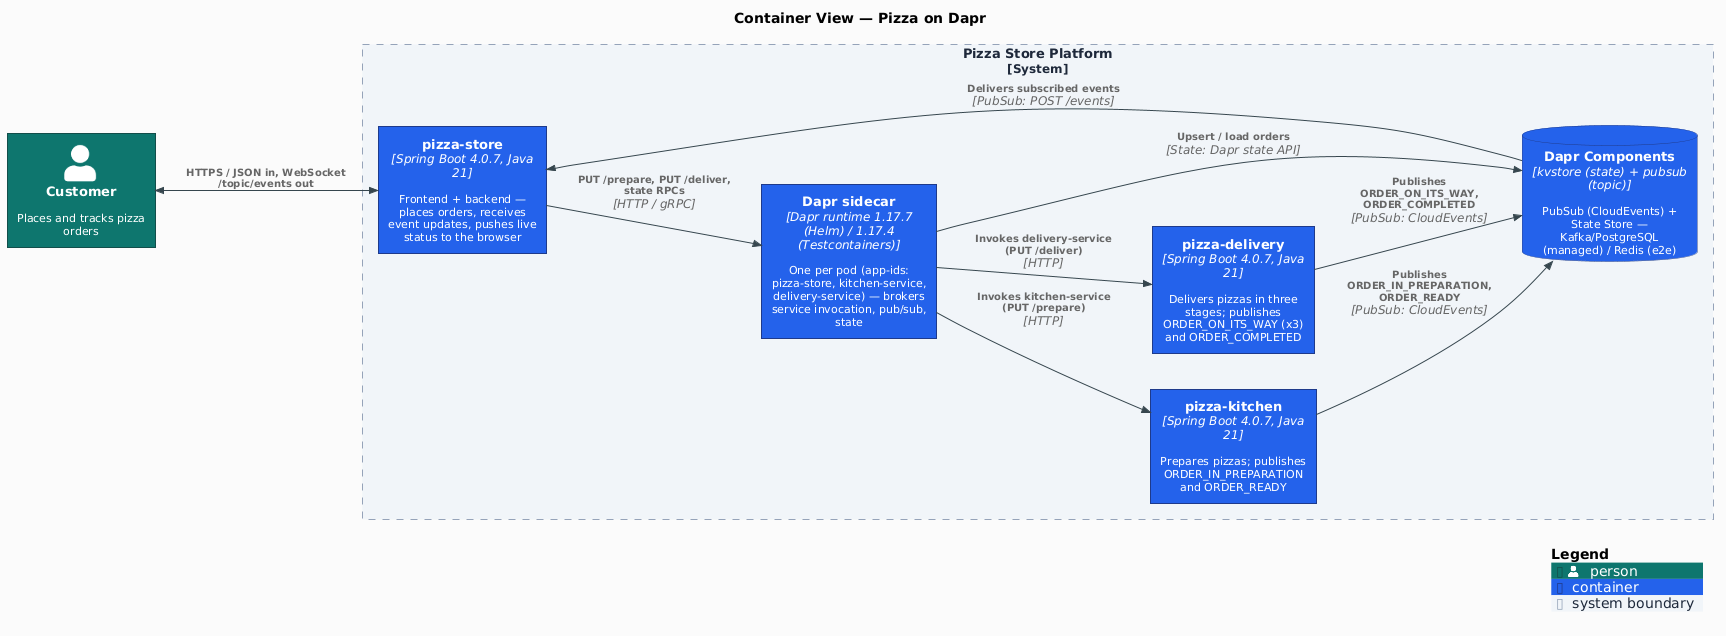
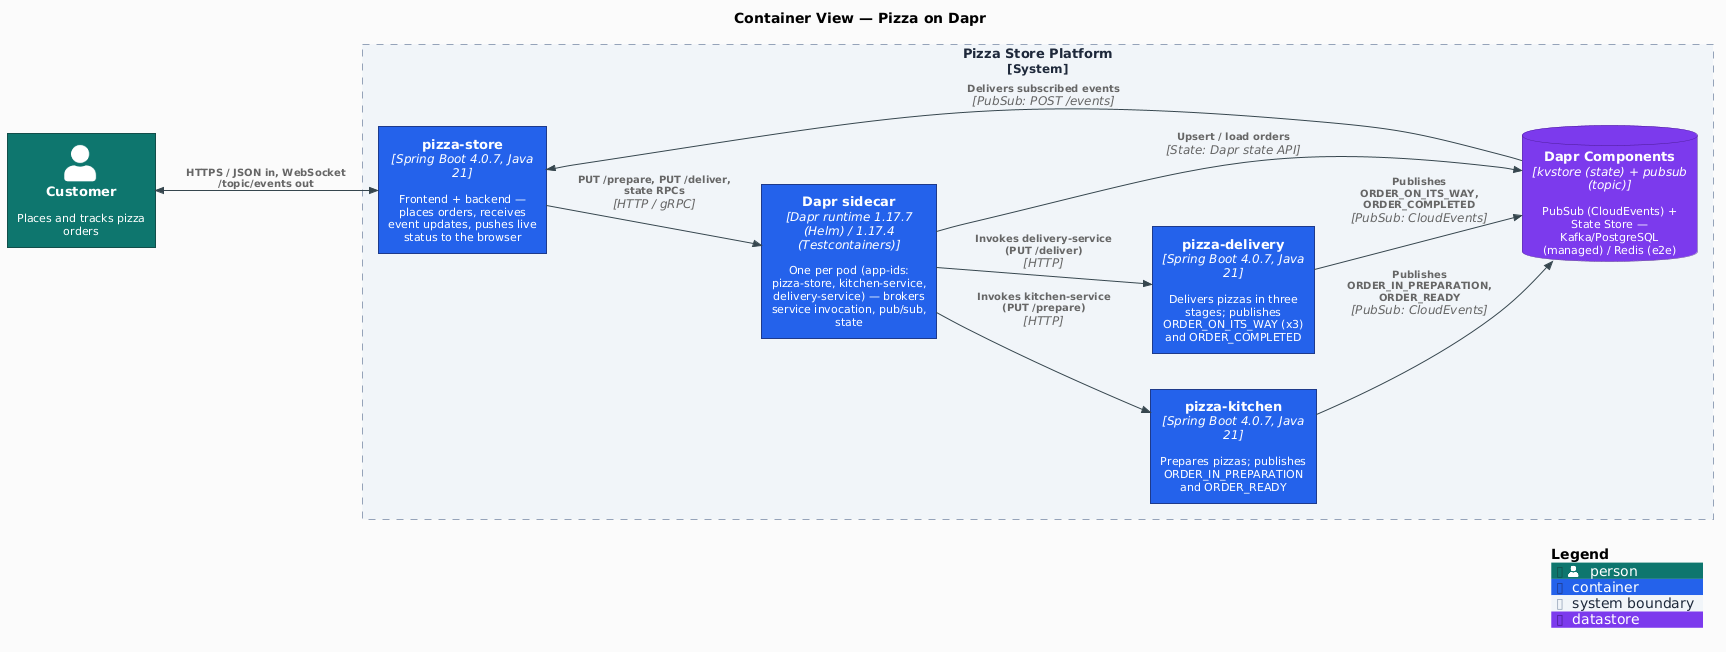
fix(ci,renovate,docs): project-review remediation — cleanup retention, if-cascade guards, KIND digest tracking, diagram tags (#108)
CI (.github/workflows):
- cleanup-runs.yml: per-workflow run retention (group_by workflowName) so the
  weekly cleanup can't delete every CI run and deregister it as a required
  check (badge 404); exclude open-PR head SHAs from pruning so an idle PR
  never loses its ci-pass run; add pull-requests: read for the gh pr list call
- ci.yml: prefix e2e + cve-check job `if:` with `!failure() && !cancelled()`
  (an explicit `if:` strips GitHub's implicit success() gate — same guard the
  docker job already uses); drop the decorative parenthetical from the
  shared-e2e step name

Renovate + Makefile:
- renovate.json: dedicated kindest/node custom manager capturing BOTH the tag
  and the digest — the generic single-line manager left KIND_NODE_DIGEST frozen,
  making node-image bumps silent no-ops (the image resolves by digest); remove
  the misleading Makefile comment + the `# renovate:` line that fed the generic
  manager. Verified the regex extracts currentValue + currentDigest.
- Makefile: pin the act runner image (catthehacker act-24.04, Renovate-tracked)
  in ci-run; sync the static-check help comment (check-env + cve-check-selftest)

Diagrams:
- _skinparam.iuml: UpdateElementStyle("container_db"/"container_queue"/
  "system_ext") are no-ops on C4-PlantUML v2.13.0 (verified by pixel-sampling —
  the DB box rendered indigo, not violet). Replace with
  AddElementTag("datastore"/"queue") attached via $tags= at each ContainerDb()/
[…]

diff --git a/CLAUDE.md b/CLAUDE.md
@@ -25,7 +25,7 @@ make deps-prune-check                   # Fail if unused declared Maven dependen
 make check-java-alignment               # Fail-fast precheck: Java major matches across .mise.toml, .java-version, pom.xml (java.version + maven.compiler.{source,target})
 make check-env                          # STOPPER gate: fail if the committed .env.example source-of-truth is missing (wired into static-check)
 make check-ports                        # Fail early naming the holder if a fixed host port in $(CHECK_PORTS) is bound (used by run + e2e)
-make static-check                       # Composite: check-java-alignment + check-env + format-check + lint + trivy-fs + trivy-config + secrets + diagrams-check + mermaid-lint + k8s-validate
+make static-check                       # Composite: check-java-alignment + check-env + format-check + lint + trivy-fs + trivy-config + secrets + diagrams-check + mermaid-lint + k8s-validate + cve-check-selftest
 make k8s-validate                       # Validate k8s/ + k8s-dapr-shared/ manifests via kubeconform (vendored OpenAPI, no cluster)
 make diagrams                           # Render docs/diagrams/*.puml → docs/diagrams/out/*.png (PlantUML in Docker)
 make diagrams-clean                     # Remove rendered PNGs
@@ -194,7 +194,7 @@ Running multiple KinD clusters on the shared default `kind` Docker network cause
 
 ### Test coverage extras
 
-- E2E asserts the WebSocket broadcast end-to-end via `websocat` (mise tool, `cargo:websocat 1.14.0`) — regression guard for the PUBLIC_IP-hardcoded bug retired 2026-04-26.
+- E2E asserts the WebSocket broadcast end-to-end via `websocat` (mise tool, `aqua:vi/websocat 1.14.1`) — regression guard for the PUBLIC_IP-hardcoded bug retired 2026-04-26.
 - `make k8s-validate` (kubeconform) validates `k8s/` and `k8s-dapr-shared/` against vendored OpenAPI on every push, so manifest-parse drift in the alternate "shared sidecar" topology surfaces immediately. RUNTIME drift in that topology is caught by the weekly-scheduled `e2e-shared` CI job (+ `workflow_dispatch`), which brings up KinD, installs a standalone shared daprd per app-id via the `dapr-shared-chart` Helm chart (daprd pinned to the runtime version; sentry/operator ports overridden to 443 to match Dapr 1.17+), deploys `k8s-dapr-shared/`, and runs the full e2e suite. NOTE: `k8s-dapr-shared/apps.yaml` is a parallel manifest set — keep it in sync with `k8s/` (resources, `/tmp` volume, OTLP env, probes); five such drifts were the reason the topology was non-functional until 2026-06-15.
 - `e2e` job runs an OWASP ZAP baseline DAST scan against the LB-exposed pizza-store after the assertion suite passes. **Strict gate** (`fail_action: true`, no `continue-on-error`): `pizza-store` ships baseline security headers via `SecurityHeadersFilter` (CSP allowlisting the pinned CDN origins + same-origin `/ws`, X-Content-Type-Options, X-Frame-Options DENY, Referrer-Policy, Permissions-Policy, COOP, CORP) and Subresource-Integrity (`sha384`) on the jQuery/STOMP CDN `<script>` tags, so the fixable findings are closed in code. Residual accepted alerts are documented as `IGNORE` in `.zap/rules.tsv` (10017 cross-domain JS — pinned+SRI'd; 90004 COEP-omitted — COOP/CORP are set; 10049/10109 informational). A NEW/unbudgeted finding (e.g. from a ZAP `:stable` image bump) now fails the e2e job. The action is pinned at `zaproxy/action-baseline@v0.15.0` (latest release; no v0.16+ exists). COEP `require-corp` is intentionally omitted — it would force every cross-origin CDN subresource to opt in via CORP for no benefit absent cross-origin-isolation needs.
 - The OpenTelemetry instrumentation BOM is consumed via the `opentelemetry-instrumentation-bom-alpha` artifact id. The `-alpha` suffix is the upstream namespace for incubating instrumentation modules — it is the production-shipped artifact name, not a stability signal, and it does not "graduate" to a non-alpha BOM. Treat as the steady-state coordinate.
@@ -222,13 +222,9 @@ Last reviewed: 2026-07-07 (backlog re-verified against version-exact Maven Centr
 - [ ] **Maven 4.0 migration** — plan when Maven 4.0 reaches GA. Re-verified 2026-07-07: still **RC-5** upstream (`apache/maven` releases), no GA.
 - [ ] **Spring Boot 4.0 → 4.1 migration** — Spring Boot 4.0 OSS support ends **2026-12-31**. **4.1.0 reached GA 2026-06-10** (verified on Maven Central: `spring-boot` metadata `<release>4.1.0`) — earlier than the previously-estimated Q4 2026. The migration window is now OPEN; project is currently on the latest 4.0.x patch (**4.0.7**). This is a framework minor migration coupled with **Java 25** (see below), NOT a drop-in bump — schedule a dedicated session: spike 4.1 → build/unit/integration → `make e2e` (+ ZAP/OTel wiring re-check) before merge, targeting a land well ahead of the 2026-12-31 EOL. Project commits to staying on the Spring Boot 4.x line.
 - [ ] **`wiremock-testcontainers` GA** — re-verified 2026-07-07: still `1.0-alpha-15` upstream (Maven Central `wiremock-testcontainers-module` metadata — latest = release = alpha-15). Track GA release. (Note: `opentelemetry-instrumentation-bom-alpha` is NOT a backlog item — see Key Config "Test coverage extras" for the rationale.)
-- [x] **`dapr-spring-boot-4-starter` 1.17.4** — DONE 2026-07-07. Bumped `<dapr.version>` 1.17.3 → **1.17.4** (drives `dapr-spring-boot-4-starter` + `testcontainers-dapr`; GA'd 2026-07-06, verified against `repo1.maven.org` metadata for all three coordinates). Same-minor patch, within the SDK-on-or-behind-deployed-runtime-minor cadence (deployed runtime 1.17.7). Validated: build + unit (27/0) + integration (9/0, real 1.17.4 `DaprContainer` sidecar) all green. **1.18.x still held** — upstream Dapr runtime is now on **1.18.1** (2026-06-16) and SDK 1.18.0 is GA, but the project's *deployed* runtime (Helm chart pin) is still 1.17.7. Moving to 1.18 is a coordinated runtime(Helm)+SDK+e2e bump (incl. the shared-chart sentry/operator 443 override), not a drop-in — do it as a deliberate session when the deployed runtime moves to the 1.18 line.
+- [ ] **Dapr 1.18 line move** — the SDK tracks the latest 1.17 patch (`<dapr.version>` **1.17.4**, matching the deployed 1.17.7 runtime; SDK-on-or-behind-deployed-runtime-minor cadence). Upstream is on runtime **1.18.1** (2026-06-16) + SDK **1.18.0** GA, but 1.18 is **held** until the project's *deployed* runtime (Helm chart pin) moves off 1.17.7. It's a coordinated runtime(Helm)+SDK+e2e bump — incl. the shared-chart sentry/operator 443 override — not a drop-in; schedule a deliberate session when the deployed runtime moves to the 1.18 line.
 - [ ] **WireMock 4.0 GA** — re-verified 2026-07-07: still beta (`4.0.0-beta.38` upstream); project's **`3.13.2` IS the latest 3.x stable** (Maven Central confirms no 3.13.3/3.14.x). Watch for 4.0 GA before bumping.
-- [ ] **Single-app DaprContainer limitation** — upstream-blocked: `dapr/java-sdk:testcontainers-dapr/.../DaprContainer.java` exposes only single `appName/appPort/appChannelAddress` fields (no peer-app registration). Re-verified 2026-07-07 against `master`, `v1.17.4`, AND `v1.18.1` — all single-app only (`withAppName`/`withAppPort`/`withAppChannelAddress`, no `withApp`/`DaprApp`/`withApps`/app-collection API), and there is **no upstream issue or PR** tracking multi-app/peer-app support, so there is no ticket to watch yet. Workaround in `KitchenInvocationIT` / `DeliveryInvocationIT`: override `DAPR_HTTP_ENDPOINT` to a WireMock receiver — verifies the emitted HTTP contract (verb, path, body) but bypasses the sidecar invoke hop. The full sidecar→app→sidecar path is covered by the KinD e2e via `make e2e`. Re-wire if/when upstream adds multi-app support (watch `dapr/java-sdk` for a `DaprApp`/`withApp` API on `DaprContainer`).
-- [x] **kindest/node v1.36 + kubectl 1.36** — DONE 2026-06-15. Bumped as a coupled set: KinD `0.31.0 → 0.32.0` (the release that ships the v1.36.1 node image — KinD requires the `@sha256` digest matched to its own release), `KIND_NODE_VERSION v1.35.1 → v1.36.1` + matching digest in the Makefile, and `kubectl 1.35.4 → 1.36.2` in `.mise.toml` (cluster ↔ kubectl skew stays at +1 minor). Validated with `make e2e`.
-- [ ] **Java 25 LTS migration** — Java 25 LTS released March 2026, supported through 2032. Java 21 LTS supported through 2031 — no urgency (5+ years runway). Plan the bump to land **alongside Spring Boot 4.1** (Q3 2026, see above) since Spring Boot 4.1 is the first GA Spring Boot line that's Java-25-aware — one migration cycle for both rather than two.
-- [x] **ZAP baseline `continue-on-error: true` → strict** — DONE 2026-06-15. `pizza-store` now ships baseline security headers (`SecurityHeadersFilter`) + Subresource-Integrity, closing the fixable ZAP findings in code; residual accepted alerts are budgeted in `.zap/rules.tsv`. Flipped to strict (`fail_action: true`, `continue-on-error` removed). `zaproxy/action-baseline@v0.15.0` is the latest release (no v0.16+ exists), so no action bump was needed. All CI behavioral gates are now strict.
-
+- [ ] **Single-app DaprContainer limitation** — upstream-blocked: `dapr/java-sdk:testcontainers-dapr/.../DaprContainer.java` exposes only single `appName/appPort/appChannelAddress` fields (no peer-app registration). Re-verified 2026-07-07 against `master`, `v1.17.4`, AND `v1.18.1` — all single-app only (`withAppName`/`withAppPort`/`withAppChannelAddress`, no `withApp`/`DaprApp`/`withApps`/app-collection API), and there is **no upstream issue or PR** tracking multi-app/peer-app support, so there is no ticket to watch yet. Workaround in `KitchenInvocationIT` / `DeliveryInvocationIT`: override `DAPR_HTTP_ENDPOINT` to a WireMock receiver — verifies the emitted HTTP contract (verb, path, body) but bypasses the sidecar invoke hop. The full sidecar→app→sidecar path is covered by the KinD e2e via `make e2e`. Re-wire if/when upstream adds multi-app support (watch `dapr/java-sdk` for a `DaprApp`/`withApp` API on `DaprContainer`).- [ ] **Java 25 LTS migration** — Java 25 LTS released March 2026, supported through 2032. Java 21 LTS supported through 2031 — no urgency (5+ years runway). Plan the bump to land **alongside Spring Boot 4.1** (Q3 2026, see above) since Spring Boot 4.1 is the first GA Spring Boot line that's Java-25-aware — one migration cycle for both rather than two.
 ## Skills
 
 Use the following skills when working on related files:

diff --git a/README.md b/README.md
@@ -5,7 +5,7 @@
 
 # Pizza on Dapr — Spring Boot 4 Microservices Reference
 
-Reference implementation of a three-service Java microservice platform on [Spring Boot 4](https://spring.io/projects/spring-boot) + [Dapr](https://dapr.io) — pub/sub on topic `topic`, state store `kvstore`, mTLS service invocation. The **runtime surface** exposes REST controllers, a STOMP WebSocket on `pizza-store`, per-pod Dapr sidecars, [Micrometer Tracing](https://micrometer.io/docs/tracing) + [OpenTelemetry](https://opentelemetry.io) OTLP/HTTP spans shipped to an in-cluster [Jaeger](https://www.jaegertracing.io) for e2e, and Actuator-backed liveness/readiness probes; the **delivery surface** covers a [Paketo CNB](https://paketo.io) image build (`spring-boot:build-image`) with amd64 GHCR publishing + [cosign](https://www.sigstore.dev) keyless OIDC signing, a [Testcontainers](https://testcontainers.com) + [WireMock](https://wiremock.org) integration suite, a KinD + [cloud-provider-kind](https://github.com/kubernetes-sigs/cloud-provider-kind) + [`websocat`](https://github.com/vi/websocat) end-to-end harness, and a supply-chain–hardened [GitHub Actions](https://github.com/features/actions) pipeline ([Trivy](https://trivy.dev) fs/config/image, [gitleaks](https://github.com/gitleaks/gitleaks), [OWASP dependency-check](https://owasp.org/www-project-dependency-check/), [OWASP ZAP](https://www.zaproxy.org) baseline DAST, [container-structure-test](https://github.com/GoogleContainerTools/container-structure-test) CNB-contract assertions, [kubeconform](https://github.com/yannh/kubeconform), Checkstyle + google-java-format, mermaid-lint, PlantUML `diagrams-check`) — runnable locally via [`act`](https://github.com/nektos/act) (`make ci-run`) — on an [mise](https://mise.jdx.dev/)-pinned toolchain with [Renovate](https://docs.renovatebot.com)-managed dependencies and a path-filtered `ci-pass` aggregator.
+Reference implementation of a three-service Java microservice platform on [Spring Boot 4](https://spring.io/projects/spring-boot) + [Dapr](https://dapr.io) — pub/sub on topic `topic`, state store `kvstore`, mTLS service invocation. The **runtime surface** exposes REST controllers, a STOMP WebSocket on `pizza-store`, per-pod Dapr sidecars, [Micrometer Tracing](https://micrometer.io/docs/tracing) + [OpenTelemetry](https://opentelemetry.io) OTLP/HTTP spans shipped to an in-cluster [Jaeger](https://www.jaegertracing.io) for e2e, and Actuator-backed liveness/readiness probes; the **delivery surface** covers a [Paketo CNB](https://paketo.io) image build (`spring-boot:build-image`) with amd64 GHCR publishing + [cosign](https://www.sigstore.dev) keyless OIDC signing, a JaCoCo-80%-gated [Testcontainers](https://testcontainers.com) + [WireMock](https://wiremock.org) integration suite, a KinD + [cloud-provider-kind](https://github.com/kubernetes-sigs/cloud-provider-kind) + [`websocat`](https://github.com/vi/websocat) end-to-end harness, and a supply-chain–hardened [GitHub Actions](https://github.com/features/actions) pipeline ([Trivy](https://trivy.dev) fs/config/image, [gitleaks](https://github.com/gitleaks/gitleaks), [OWASP dependency-check](https://owasp.org/www-project-dependency-check/), [OWASP ZAP](https://www.zaproxy.org) baseline DAST, [container-structure-test](https://github.com/GoogleContainerTools/container-structure-test) CNB-contract assertions, [kubeconform](https://github.com/yannh/kubeconform), Checkstyle + google-java-format, mermaid-lint, PlantUML `diagrams-check`) — runnable locally via [`act`](https://github.com/nektos/act) (`make ci-run`) — on an [mise](https://mise.jdx.dev/)-pinned toolchain with [Renovate](https://docs.renovatebot.com)-managed dependencies and a path-filtered `ci-pass` aggregator.
 
 <p align="center">
   <img src="docs/diagrams/out/c4-context.png" alt="C4 System Context — Pizza on Dapr" width="640">
@@ -410,6 +410,7 @@ Images are published for `linux/amd64` only. Inspect with `docker buildx imageto
 | `NVD_API_KEY` | Secret (optional) | `cve-check` job | Free API key from [NIST NVD](https://nvd.nist.gov/developers/request-an-api-key) — recommended to avoid NVD rate-limiting |
 | `OSS_INDEX_USER` | Secret (optional) | `cve-check` job | Sonatype OSS Index account email — free signup at [ossindex.sonatype.org](https://ossindex.sonatype.org/). Wires OSS Index as a second CVE source alongside NVD; if unset, the OSS Index analyzer is disabled (it requires token auth) |
 | `OSS_INDEX_TOKEN` | Secret (optional) | `cve-check` job | OSS Index API token (paired with `OSS_INDEX_USER`). Routed via `~/.m2/settings.xml` (no argv leak). Note: the free tier can rate-limit (HTTP 401) on large dependency trees |
+| `ACT` | Variable (internal) | most jobs | Auto-set to `true` by [`act`](https://github.com/nektos/act) during `make ci-run`; gates cloud-only steps (artifact upload, ZAP scan, image push) so they skip locally. Not operator-set — no action needed |
 
 Set secrets via **Settings > Secrets and variables > Actions > New repository secret**.
 
